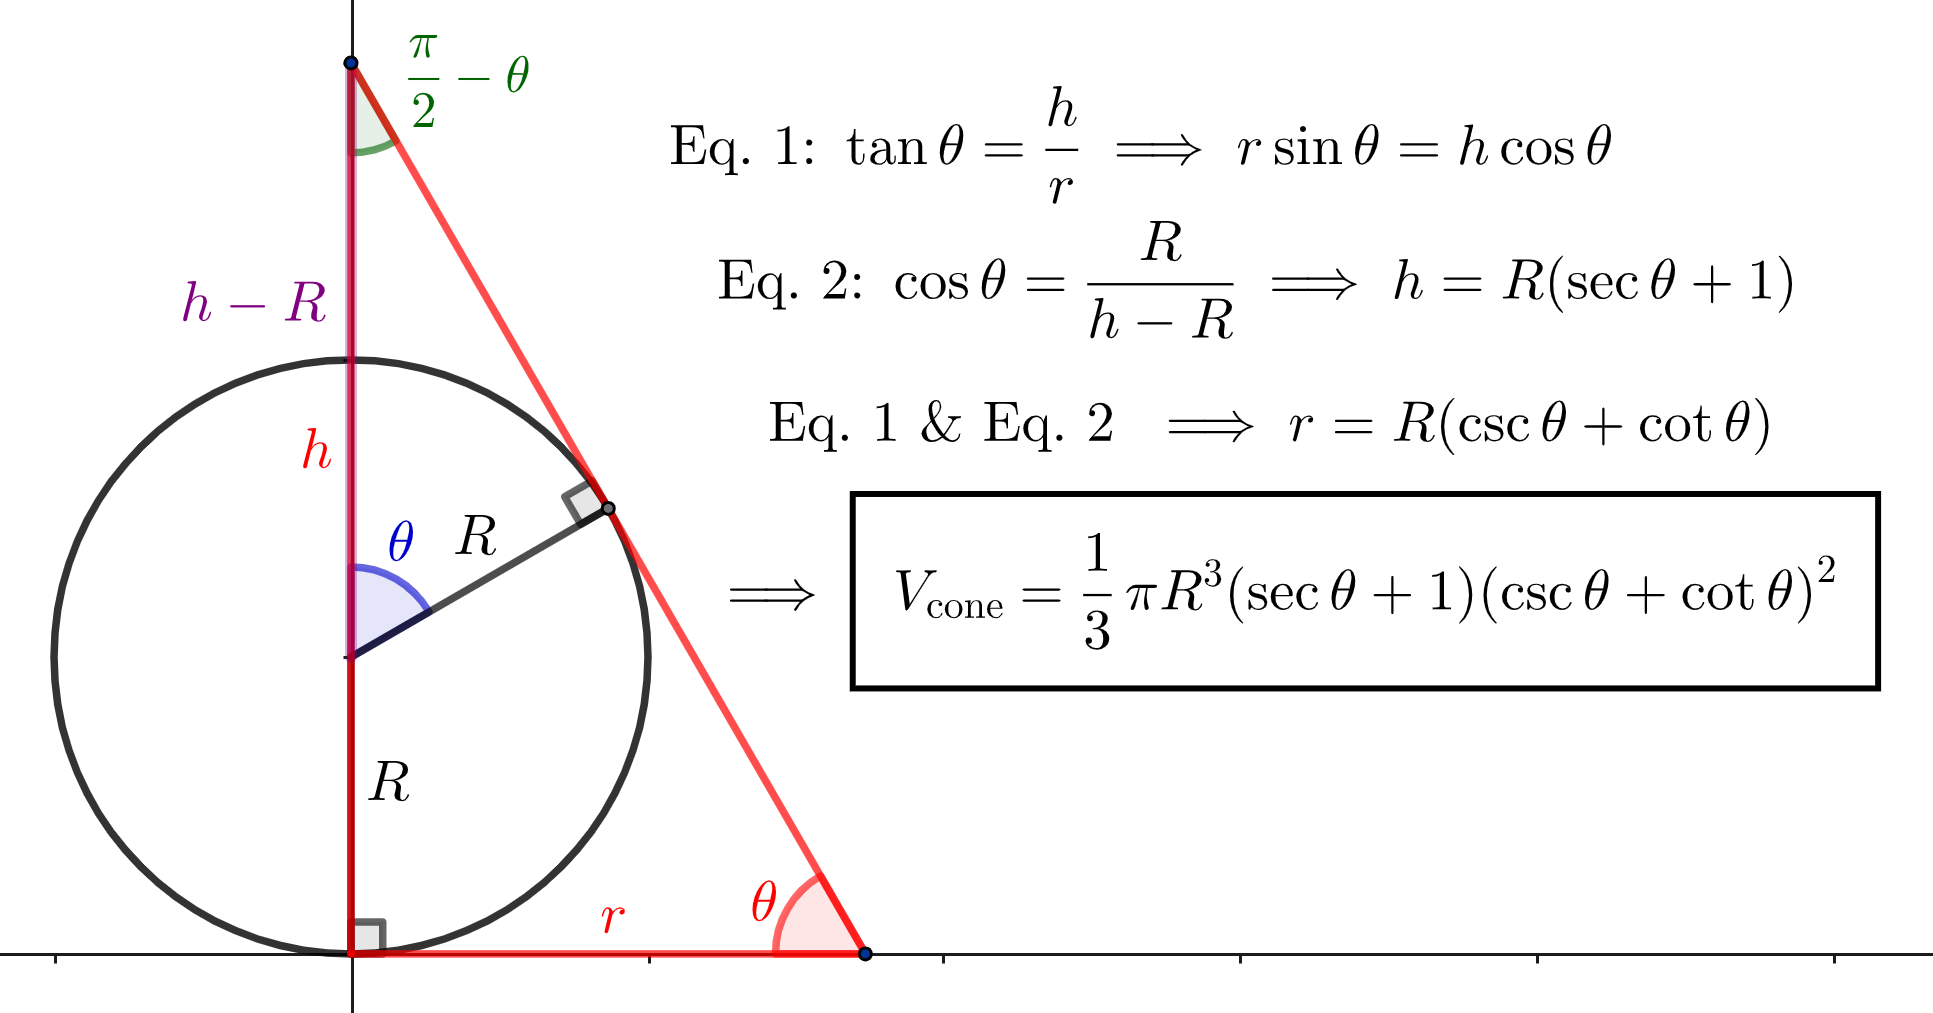
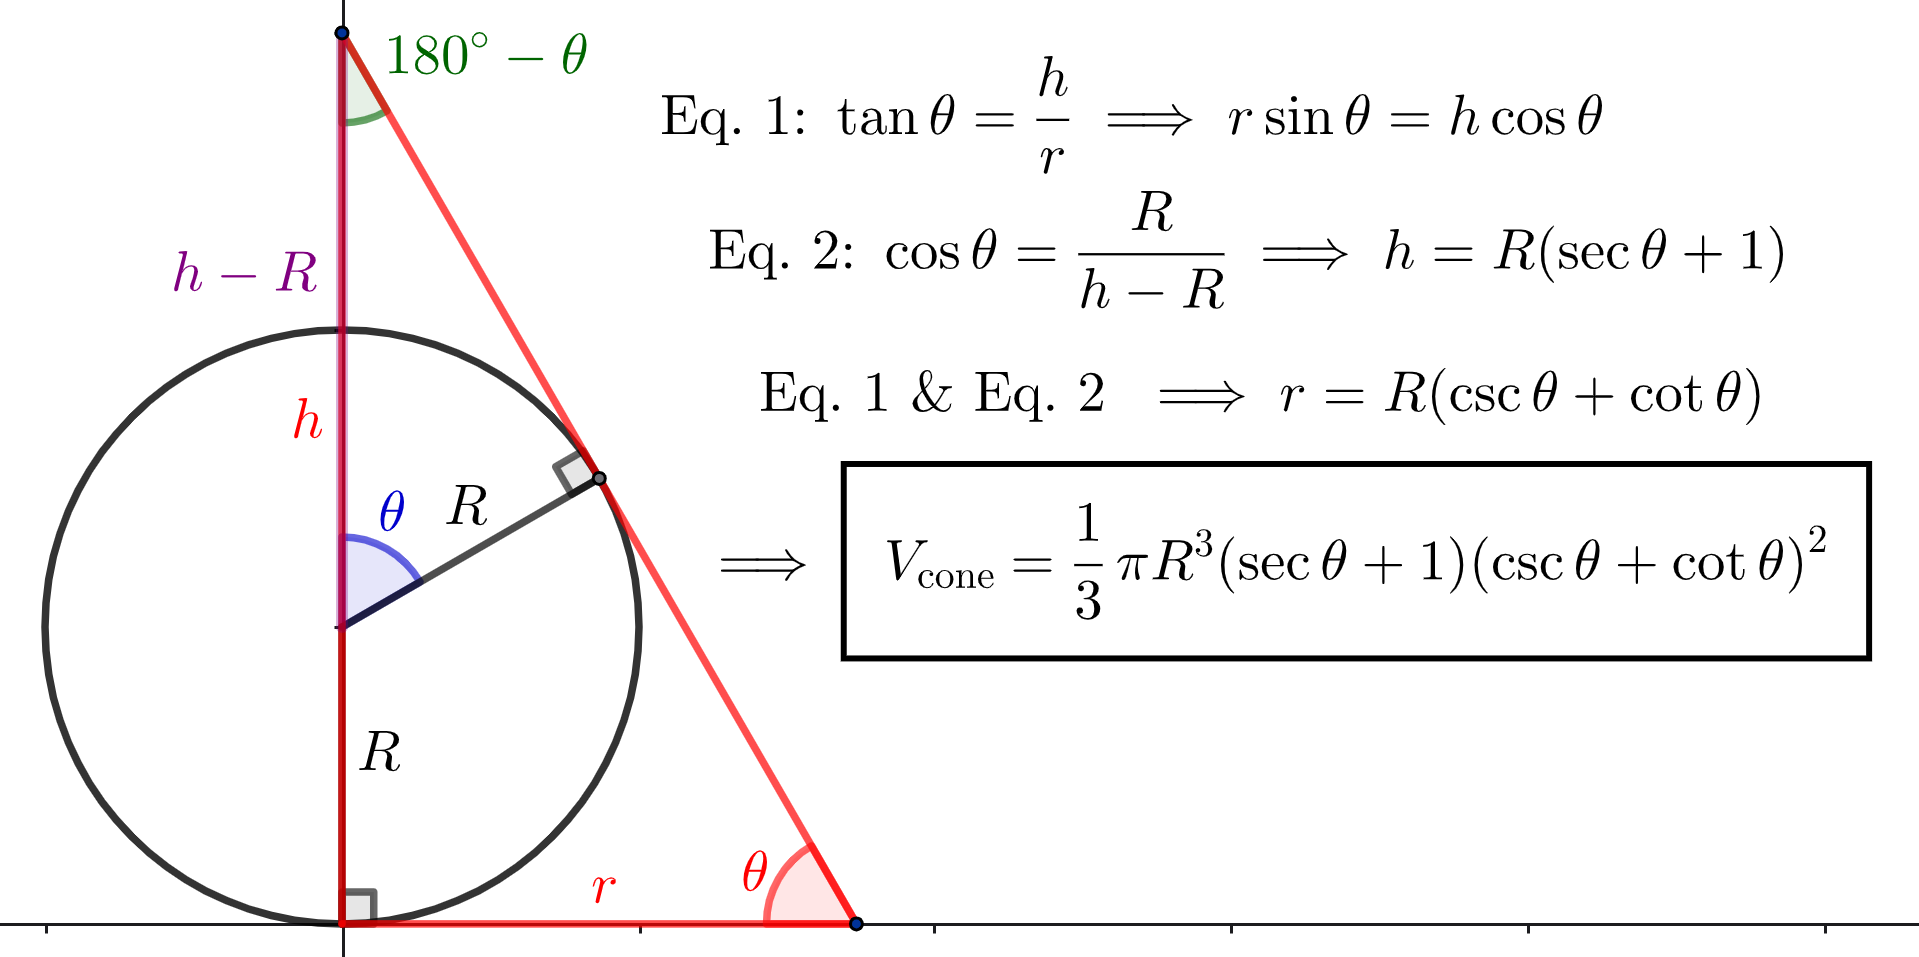
Sullivan C7S3P64a solution & updated graph

diff --git a/Sullivan/C7/C7.html b/Sullivan/C7/C7.html
@@ -569,9 +569,23 @@ Calculate \((g \circ p)(60°)\)</p>
 <p><strong>Sln</strong>: \(\displaystyle y = 2g\left(\frac{\pi}6 - \frac{\pi}6\right) = 2\cos(0) = 2(1) = 2\), so \(\boxed{\left(\frac{\pi}6, 2\right)}\) is the required point.
 <br><br></p>
 
-<p><a name="3.64" class="goback" onclick="winhisback()"><strong>3.64</strong>)</a> </p>
+<p><a name="3.64" class="goback" onclick="winhisback()"><strong>3.64</strong>)</a> 
+<strong>a</strong>) Find the volume of a right&#8209;circular cone of slant angle \(\theta\) that circumscribes a sphere of radius \(R\).</p>
 
-<p><strong>Sln</strong>: 
+<p><strong>Sln</strong>: We can use two&#8209;dimensional (plane) geometry to solve this three&#8209;dimensional (solid) geometry problem because of the <strong><em>rotational symmetry</em></strong> of the figures involved: the sphere is simply a circle rotated around a diameter, which defines an &quot;axis of symmetry,&quot; and the circumscribing cone is simply an isosceles triangle, whose base is bisected by said axis of symmetry; which circumscribes the circle; and which is also rotated around said axis of symmetry.&nbsp; Because of this, the intersection with the sphere and the cone of any plane containing the axis of symmetry is a circle and a circumscribing isosceles triangle, both congruent to whichever such shapes were used to create the three&#8209;D objects in the first place.&nbsp; In other words, we can compute the required \(h\) and \(r\) by &quot;pretending&quot; that we are dealing not with a sphere and a circumscribing cone, but with a circle (of radius \(R\)) and a circumscribing isosceles triangle (of base angle \(\theta\)), and then using the results in the given formula for the volume of the cone, \(\frac13\pi r^2 h\).</p>
+
+<p>We need to figure out \(r\) and \(h\) in terms of \(R\) and \(\theta\) using algebra, geometry, and right triangle trigonometry.&nbsp; Referencing  the figure below, first note that \(\displaystyle \tan\theta = \frac h r \implies r\sin\theta = h\cos\theta\).&nbsp; Next, because the altitude of the triangle makes a right angle with the base, the angle between the altitude and a lateral side is \(180° - \theta\); and because the lateral sides are tangent to the circle, the angle between a lateral side and a radius to a point of tangency is \(90°\); consequently, the angle between said radius and the altitude is also \(\theta\).&nbsp; Thus \(\displaystyle \cos\theta = \frac R{h-R} \implies \sec\theta = \frac h{R} - 1 \implies h = R(\sec\theta + 1)\).&nbsp; Combining this with \(r\sin\theta = h\cos\theta\) gives \(r\sin\theta = R(\sec\theta + 1)\cos\theta \implies r = R(\csc\theta + \cot\theta)\), yielding: \[\boxed{V_{\text{cone}} = \frac13{\pi}R^3(1 + \sec\theta)(\csc\theta + \cot\theta)^2}\]
+<center>
+  <img src="./Graphs/SullivanC7S3P64a.png">
+</center></p>
+
+<p><strong>b</strong>) Give the cone volumes for a sphere of radius 2 cm and slant angles 30°, 45°, and 60°.</p>
+
+<p><strong>Sln</strong>: </p>
+
+<p><strong>c</strong>) Use technology to find the angle \(\theta_{\min}\) that minimizes the cone volume for a sphere of radius 2 cm (and provide that minimum volume).</p>
+
+<p><strong>Sln</strong>:
 <br><br></p>
 
 <p><a name="3.68" class="goback" onclick="winhisback()"><strong>3.68</strong>)</a> 

diff --git a/Sullivan/C7/C7.md b/Sullivan/C7/C7.md
@@ -421,9 +421,23 @@ __Sln__: $\displaystyle y = 2g\left(\frac{\pi}6 - \frac{\pi}6\right) = 2\cos(0) 
 <br><br>
 
 <a name="3.64" class="goback" onclick="winhisback()">__3.64__)</a> 
-
+__a__) Find the volume of a right&#8209;circular cone of slant angle $\theta$ that circumscribes a sphere of radius $R$.
  
+__Sln__: We can use two&#8209;dimensional (plane) geometry to solve this three&#8209;dimensional (solid) geometry problem because of the ___rotational symmetry___ of the figures involved: the sphere is simply a circle rotated around a diameter, which defines an &quot;axis of symmetry,&quot; and the circumscribing cone is simply an isosceles triangle, whose base is bisected by said axis of symmetry; which circumscribes the circle; and which is also rotated around said axis of symmetry.&nbsp; Because of this, the intersection with the sphere and the cone of any plane containing the axis of symmetry is a circle and a circumscribing isosceles triangle, both congruent to whichever such shapes were used to create the three&#8209;D objects in the first place.&nbsp; In other words, we can compute the required $h$ and $r$ by &quot;pretending&quot; that we are dealing not with a sphere and a circumscribing cone, but with a circle (of radius $R$) and a circumscribing isosceles triangle (of base angle $\theta$), and then using the results in the given formula for the volume of the cone, $\frac13\pi r^2 h$.
+
+We need to figure out $r$ and $h$ in terms of $R$ and $\theta$ using algebra, geometry, and right triangle trigonometry.&nbsp; Referencing  the figure below, first note that $\displaystyle \tan\theta = \frac h r \implies r\sin\theta = h\cos\theta$.&nbsp; Next, because the altitude of the triangle makes a right angle with the base, the angle between the altitude and a lateral side is $180° - \theta$; and because the lateral sides are tangent to the circle, the angle between a lateral side and a radius to a point of tangency is $90°$; consequently, the angle between said radius and the altitude is also $\theta$.&nbsp; Thus $\displaystyle \cos\theta = \frac R{h-R} \implies \sec\theta = \frac h{R} - 1 \implies h = R(\sec\theta + 1)$.&nbsp; Combining this with $r\sin\theta = h\cos\theta$ gives $r\sin\theta = R(\sec\theta + 1)\cos\theta \implies r = R(\csc\theta + \cot\theta)$, yielding: $$\boxed{V_{\text{cone}} = \frac13{\pi}R^3(1 + \sec\theta)(\csc\theta + \cot\theta)^2}$$
+<center>
+  <img src="./Graphs/SullivanC7S3P64a.png">
+</center>
+
+__b__) Give the cone volumes for a sphere of radius 2 cm and slant angles 30°, 45°, and 60°.
+
 __Sln__: 
+
+
+__c__) Use technology to find the angle $\theta_{\min}$ that minimizes the cone volume for a sphere of radius 2 cm (and provide that minimum volume).
+
+__Sln__:
 <br><br>
 
 <a name="3.68" class="goback" onclick="winhisback()">__3.68__)</a> 